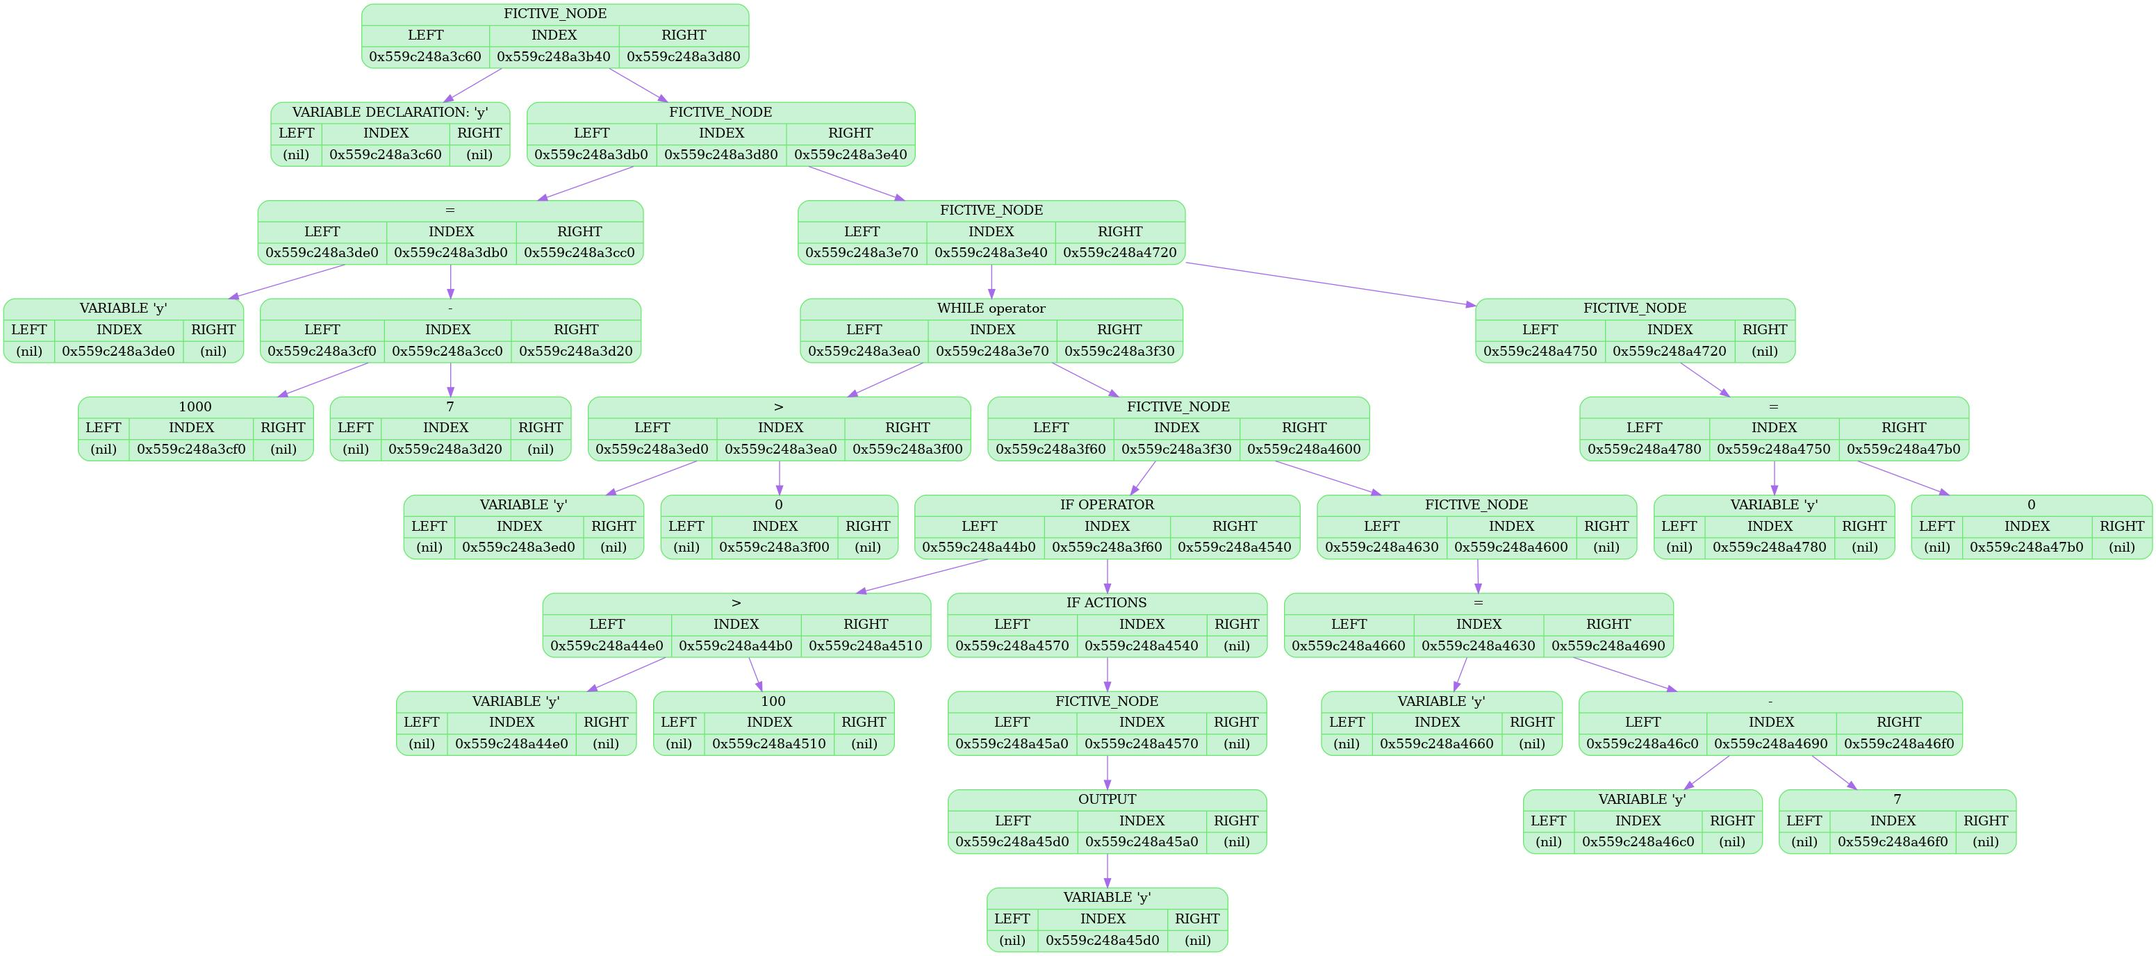
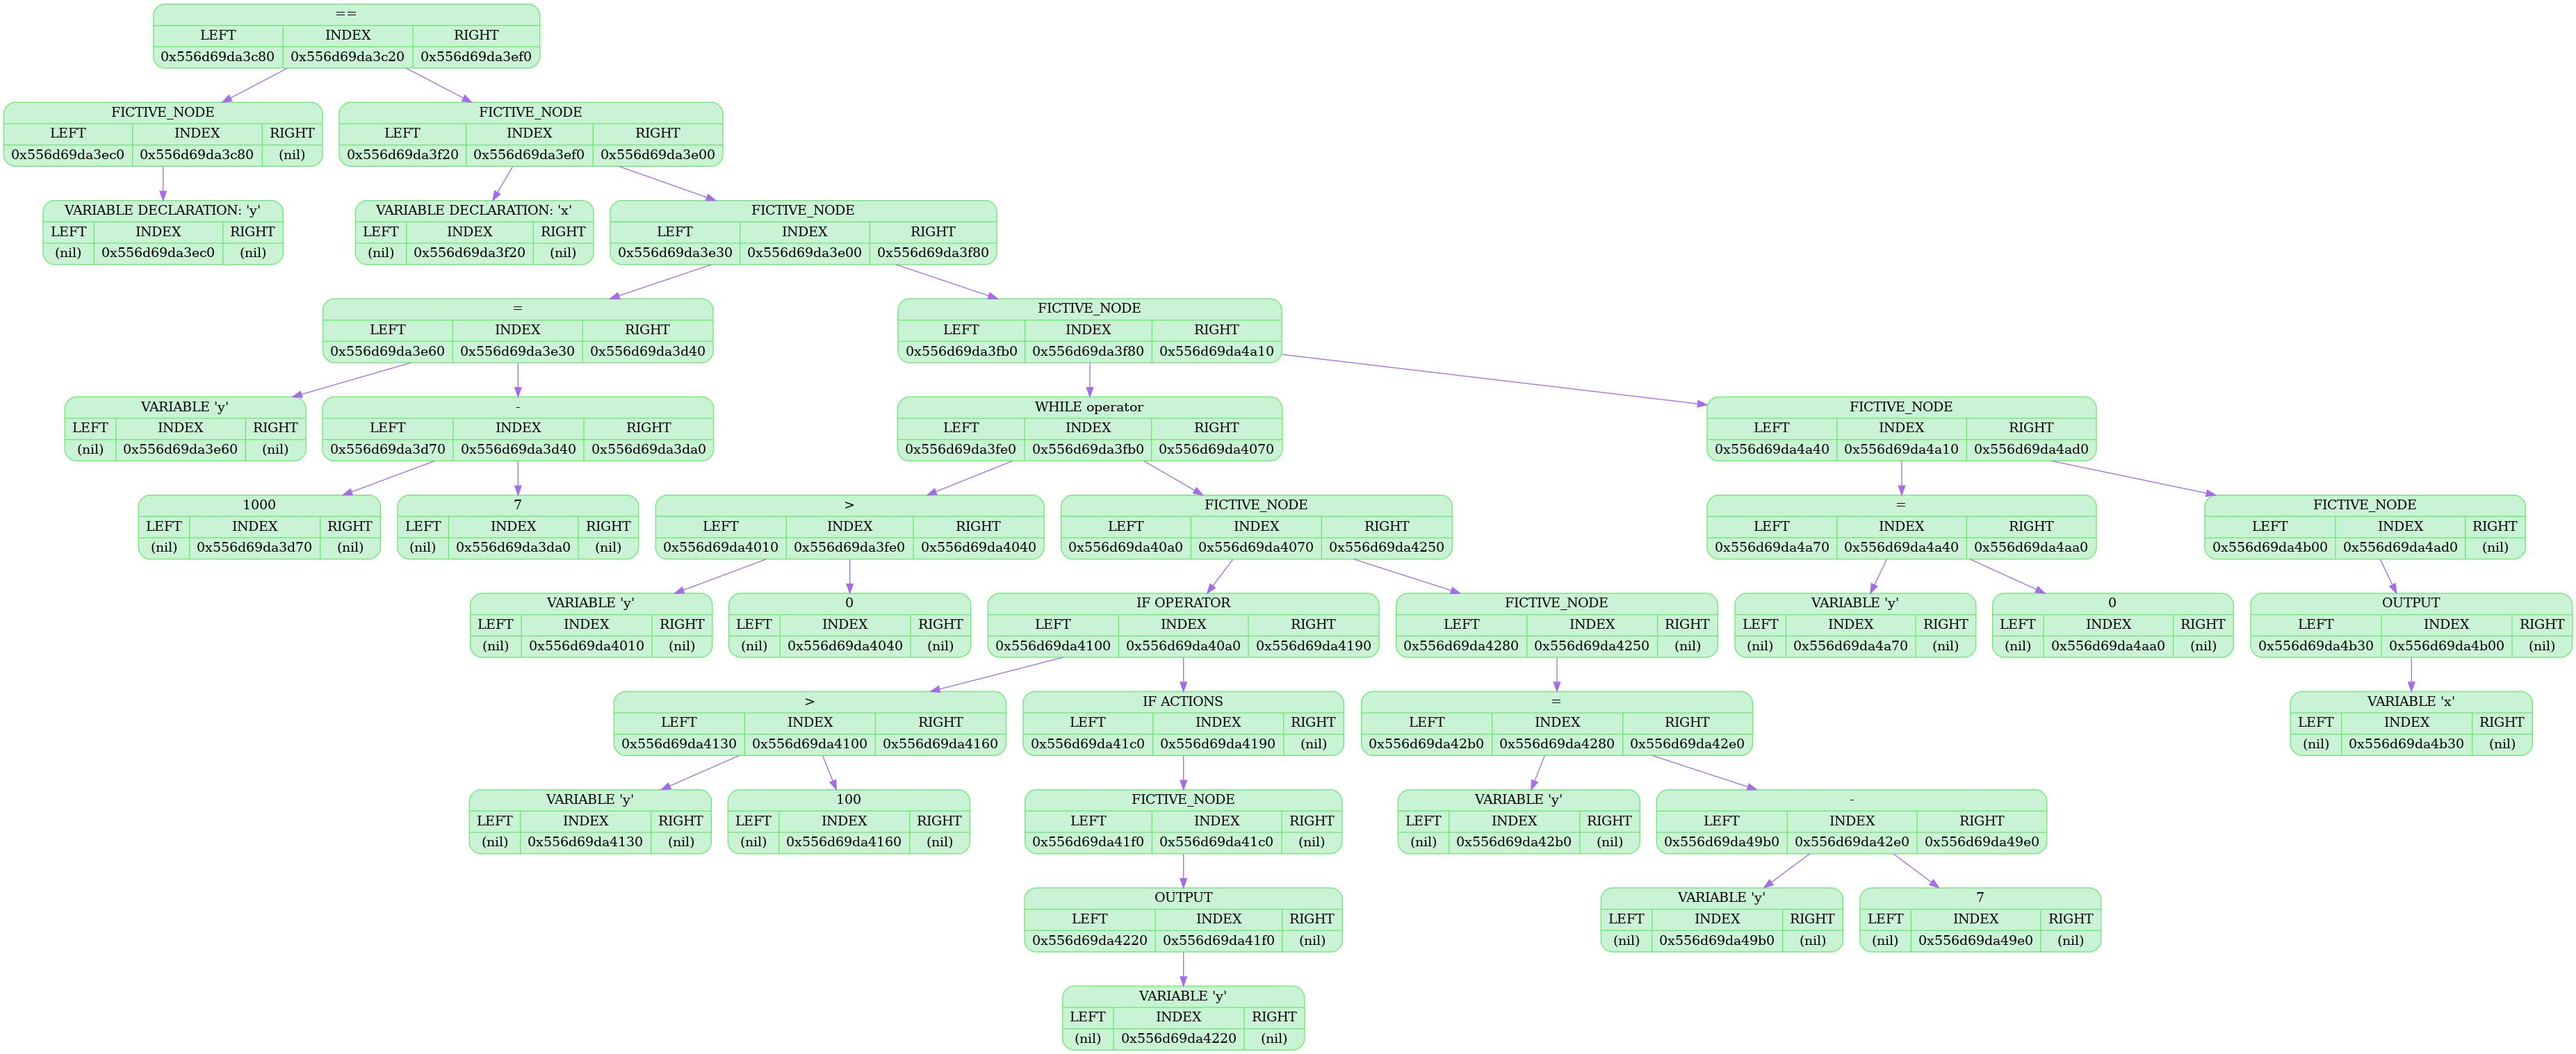
fix not initialized variables

diff --git a/tree/recursive_descent.cpp b/tree/recursive_descent.cpp
@@ -282,7 +282,9 @@ Node *getVarDec(Tokens *tokens,
                                             {},
                                             declared_var,
                                             nullptr);
-//            (*index)--;
+            if (TOKEN.type == KEYWORD_TOKEN &&
+                TOKEN.value.operation == EQUAL_OP)
+                (*index)--;
             return fictive_node;
         }
         (*index)--;
